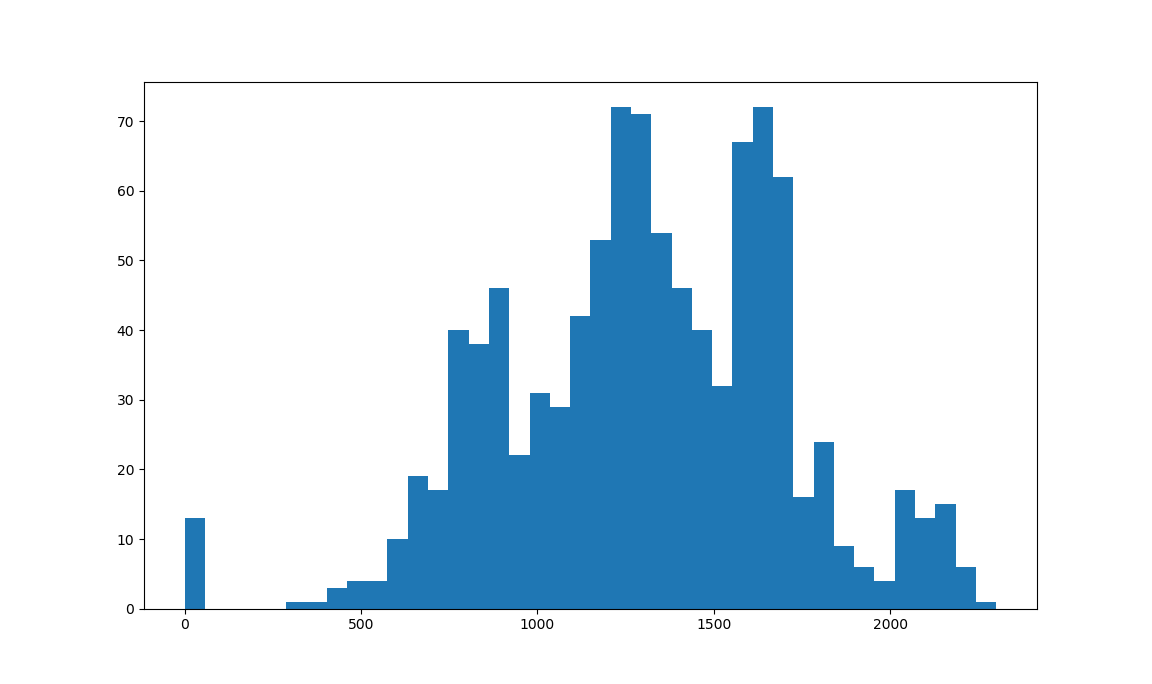
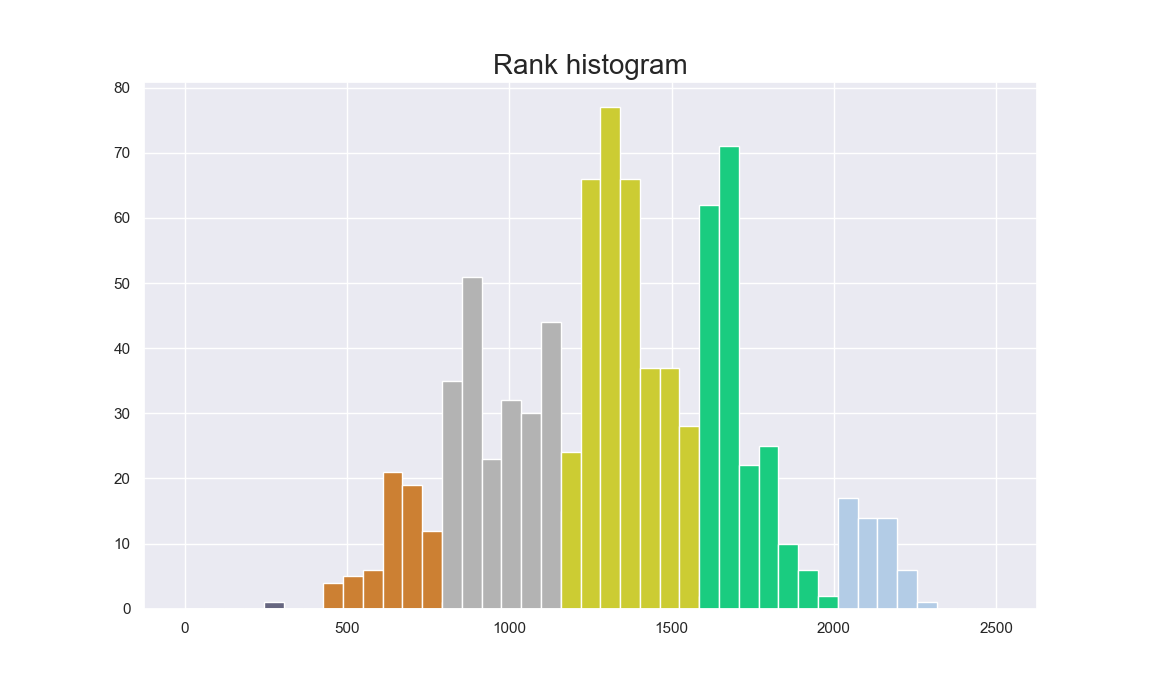
beautify histogram

diff --git a/driver.py b/driver.py
@@ -248,8 +248,9 @@ def numerical_ranking(league_entry):
 	lp = league_entry['leaguePoints']
 	return tiers.index(tier)*400 + ranks.index(rank)*100 + lp
 
+tier_colors = [(.4,.4,.5), (.8,.5,.2), (.7,.7,.7), (.8,.8,.2), (.1,.8,.5), (.7,.8,.9), (0,0,0)]
 def tier_color(num_rank):
-	return [(.4,.4,.5), (.8,.5,.2), (.7,.7,.7), (.8,.8,.2), (.1,.8,.5), (.7,.8,.9), (0,0,0)][num_rank // 400]
+	return tier_colors[num_rank // 400]
 
 tier_color_sample = np.array([tier_color(r) for r in sample_best_ranked])
 
@@ -339,6 +340,15 @@ def graph_from_df(x, y, **kwargs):
 	ax.set_title(f"{x} vs {y}", fontsize = 20)
 	return ax
 
+#a histogram of ranks that's colored.
+def colored_rank_hist():
+	fig, ax = plt.subplots()
+	ranks_by_tier = [[d for d in sample_best_ranked if d > i*400 and d < (i+1)*400] for i in range(6)]
+	bins = 41
+	for i,data in enumerate(ranks_by_tier):
+		ax.hist(data, bins = bins, color=tier_colors[i], range = [0,2500])
+	ax.set_title("Rank histogram", fontsize = 20)
+	return ax
 
 def graph_by_class(ax,x,y,clss):
 	lovers = players_by_class[clss]
